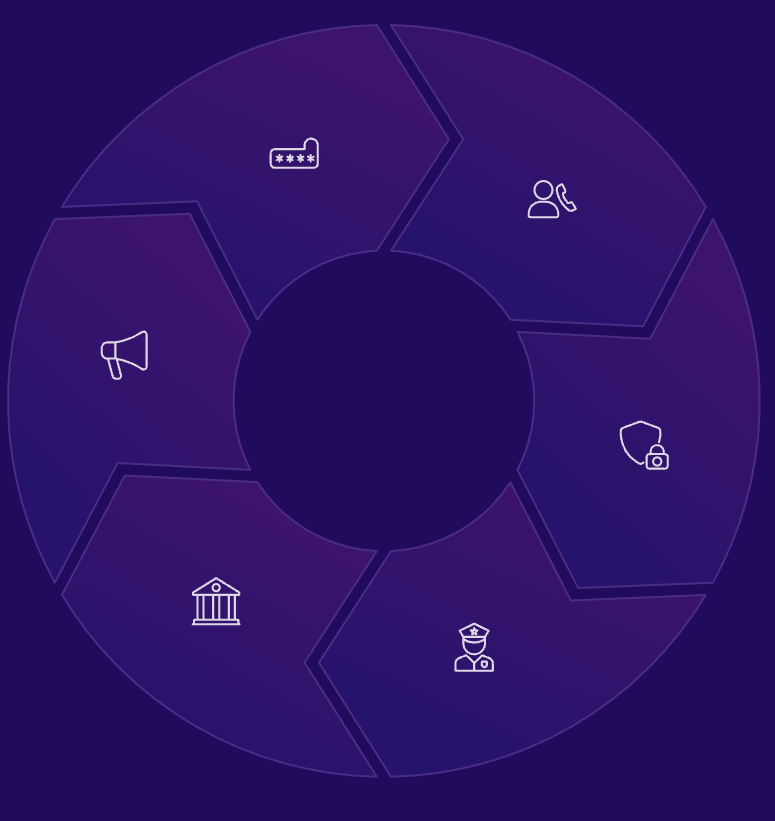
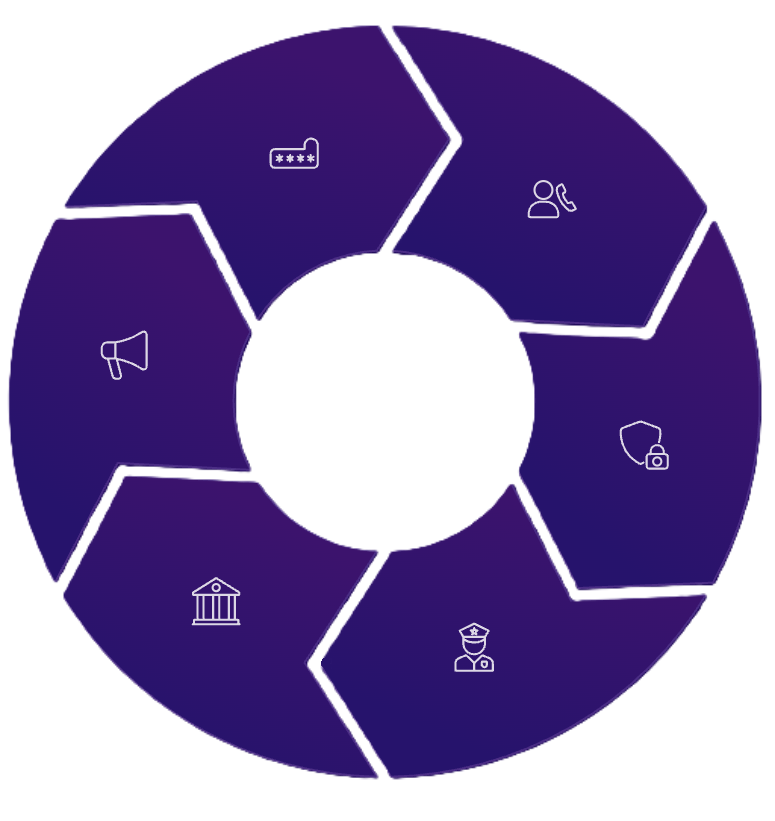
Modified image

diff --git a/protezione.html b/protezione.html
@@ -8,9 +8,9 @@
     <link rel="stylesheet" href="styles.css">
     <link rel="stylesheet" href="infogrid.css">
 </head>
-<body bgcolor="#0D0A2C">
+<body background="img/img01-aurora-.jpg">
 
-    <!-- HEADER + NAVBAR -->
+
     <header>
         <h1>Prevenzione e Protezione dal Furto d'Identità</h1>
 
@@ -25,7 +25,7 @@
         </nav>
     </header>
 
-    <!-- CONTENUTO PRINCIPALE -->
+
     <main>
         <h1 align="center">Protezione</h1>
         <h2 align="center">Cosa fare dopo un furto di identità</h2>
